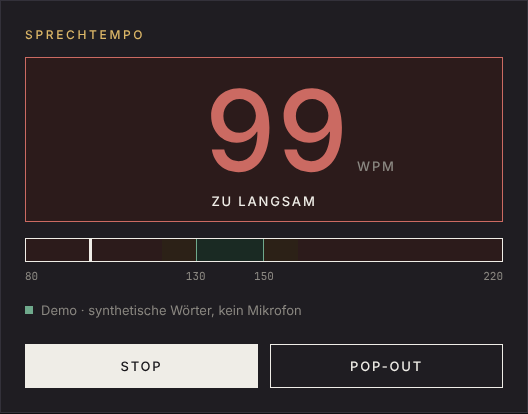
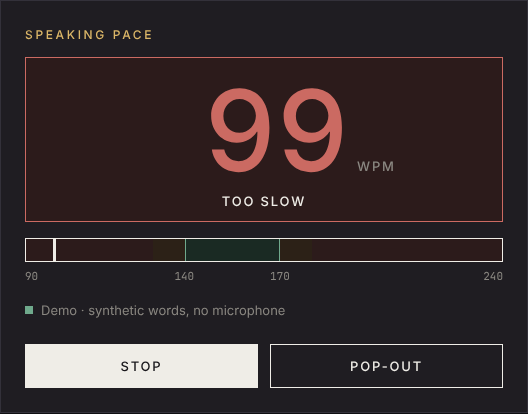
Use sourced pace norms per scenario and speech language
Scenario corridors (English reference): presentation 140-170,
conversation 150-190, video/podcast 150-180, teaching 120-150,
reading aloud 140-170 WPM.

Language factors from read-aloud rates (IReST 2012 and Brysbaert 2019
averaged): es 0.98, de 0.84, zh 0.72 (dictionary words, cross-checked
with conversational corpora), ar 0.68, hi 1.0 (low confidence, one
older study).

README documents every source and caveat; screenshots now show the
English interface plus the Arabic right-to-left layout. CONTRIBUTING
invites native-speaker translation fixes and sourced norm updates.

Claude-Session: https://claude.ai/code/session_01QcqxZM7zKTmSiGWN7DcczE

diff --git a/index.html b/index.html
@@ -356,9 +356,11 @@ body {
   // per minute each speech language typically carries relative to English. Sources: README.
   var SCENARIOS = ['presentation', 'conversation', 'recording', 'teaching', 'reading', 'custom'];
   var SCENARIO_BASE = {
-    presentation: [130, 150], conversation: [140, 170], recording: [140, 160], teaching: [110, 130], reading: [150, 160]
+    presentation: [140, 170], conversation: [150, 190], recording: [150, 180], teaching: [120, 150], reading: [140, 170]
   };
-  var LANG_FACTOR = { 'en-US': 1, 'zh-CN': 1, 'hi-IN': 1, 'es-ES': 1, 'ar-SA': 1, 'de-DE': 1 };
+  // Read-aloud rates relative to English (IReST 2012 and Brysbaert 2019 averaged; Chinese in
+  // dictionary words, cross-checked with conversational data). Hindi rests on one older study.
+  var LANG_FACTOR = { 'en-US': 1, 'zh-CN': 0.72, 'hi-IN': 1, 'es-ES': 0.98, 'ar-SA': 0.68, 'de-DE': 0.84 };
 
   var DEFAULTS = { ui: 'en', lang: 'en-US', scenario: 'presentation', min: 130, max: 150, windowSec: 15, pauseSec: 1.5, includePauses: false, beep: false };
   var MARGIN = 10;            // width of each yellow band in WPM

diff --git a/README.md b/README.md
@@ -13,7 +13,7 @@ One HTML file. Runs in your browser. Stores nothing.
 
 ### 👉 [Open Word Pace](https://nullthrone.github.io/word-pace-track/) · [Try the demo](https://nullthrone.github.io/word-pace-track/?demo=1)
 
-<img src="docs/screenshot-light.png" alt="Word Pace showing 99 WPM in red, labelled 'too slow', with the gauge below" width="420">
+<img src="docs/screenshot-light.png" alt="Word Pace showing 99 WPM in red, labelled 'Too slow', with the gauge below" width="420">
 
 </div>
 
@@ -29,13 +29,14 @@ Word Pace gives you an outside reference while you speak: a live words-per-minut
 
 - 🔢 **Live WPM**, updated twice a second over a sliding window (default 15 s).
 - ⏸ **Pauses don't count.** Silence neither lowers the number nor drops it to zero; the value freezes and shows *Pause*.
-- 🎯 **Target corridor** (default 130–150 WPM) with 10 WPM amber bands and a text label, so it reads without colour too.
+- 🎯 **Recommended pace per situation and language**: pick *Presentation*, *Conversation*, *Video / podcast*, *Teaching* or *Reading aloud*, and the target corridor adapts to the language you speak. Or set your own. 10 WPM amber bands and a text label make it readable without colour too.
+- 🌍 **Six languages**: English, 中文, हिन्दी, Español, العربية and Deutsch, for the interface and for speech recognition, chosen separately. Arabic runs right-to-left.
 - 🪟 **Pop-out**: a tiny always-on-top window next to Zoom or your recording app (Chrome, Edge). Safari and Firefox get a small popup.
 - 🔁 **Auto-restart** when the browser's recognition times out or the network hiccups, with backoff.
 - 📊 **Session summary**: duration, peak, average over speaking time *and* over total duration, time in each zone.
 - 🔔 **Optional beep** after 5 s in the red.
 - 🌗 **Light and dark** following your system setting.
-- 🔗 **Settings in the URL** (`#min=130&max=150&w=15…`): bookmark a setup, nothing is saved on the device.
+- 🔗 **Settings in the URL** (`#ui=en&lang=en-US&sc=presentation…`): bookmark a setup, nothing is saved on the device.
 - 🧪 **Demo mode** (`?demo=1`): a synthetic 100→200 WPM ramp, no microphone needed.
 
 <div align="center">
@@ -72,8 +73,45 @@ WPM = words in window / speaking time in window × 60
 Good to know:
 
 - While a pause is still inside the window, up to *P* of it counts as speech, so the value can read up to ~10 % low until the pause leaves the window.
-- Tools that divide by the *total* duration, pauses included, report a lower number than speaking-time WPM. Switch on **Pausen einrechnen** to compare, or read both averages in the session summary.
+- Tools that divide by the *total* duration, pauses included, report a lower number than speaking-time WPM. Switch on **Count pauses** to compare, or read both averages in the session summary.
+- Words are counted with `Intl.Segmenter`, so languages written without spaces (Chinese) count dictionary words, not characters.
 - Recognition delivers words in bursts with some latency. Accuracy target: within 15 % of a stopwatch count.
+
+## 🌍 Languages and recommended pace
+
+Good pace depends on the situation and on the language: German and Arabic words are longer than English ones, so the same speed of talking carries fewer words per minute. Word Pace takes a reference corridor in English for each scenario and scales it by a factor for the speech language.
+
+**Scenario corridors (English reference, WPM)**
+
+| Scenario | Corridor | Basis |
+| --- | --- | --- |
+| Presentation | 140–170 | Lectures average 140–153 WPM, TED talks 169 ([Vuković-Stamatović & Čarapić](http://www.revistaiberica.org/index.php/iberica/article/download/852/549/); [Tånnander & Edlund 2021](https://www.isca-archive.org/ssw_2021/tannander21_ssw.pdf)) |
+| Conversation | 150–190 | Telephone corpora 193–196 WPM over total time, by topic 152–170 ([Yuan, Liberman & Cieri 2006](https://www.ldc.upenn.edu/sites/default/files/interspeech2006-towards-integrated-understanding.pdf)); ~150 as US average ([NCVS](https://ncvs.org/archive/ncvs/tutorials/voiceprod/tutorial/quality.html)) |
+| Video / podcast | 150–180 | Science podcasts average 168, radio 160 ([Vuković-Stamatović & Čarapić](http://www.revistaiberica.org/index.php/iberica/article/download/852/549/)) |
+| Teaching | 120–150 | Learner comprehension improves when speech slows from ~200 to ~130; ~120 for beginners ([Yurtbaşı 2015](https://files.eric.ed.gov/fulltext/ED566202.pdf)) |
+| Reading aloud | 140–170 | Audiobook narration ~155 WPM (9,300 words/hour, [ACX](https://help.acx.com/s/article/how-long-will-my-narrated-audiobook-be)); audiobooks 140–180 ([Brysbaert 2019](https://www.gwern.net/doc/psychology/linguistics/2019-brysbaert.pdf)) |
+
+**Language factors (English = 1.0)**, from read-aloud rates in [IReST 2012](https://iovs.arvojournals.org/article.aspx?articleid=2166061) and [Brysbaert 2019](https://www.gwern.net/doc/psychology/linguistics/2019-brysbaert.pdf), averaged:
+
+| Speech language | Factor | Presentation corridor | Confidence |
+| --- | --- | --- | --- |
+| English (en-US) | 1.00 | 140–170 | reference |
+| Español (es-ES) | 0.98 | 135–165 | medium-high |
+| Deutsch (de-DE) | 0.84 | 120–145 | medium |
+| 中文 (zh-CN) | 0.72 | 100–120 | medium; matches conversational data ([Yuan et al. 2006](https://www.ldc.upenn.edu/sites/default/files/interspeech2006-towards-integrated-understanding.pdf)) |
+| العربية (ar-SA) | 0.68 | 95–115 | medium-low |
+| हिन्दी (hi-IN) | 1.00 | 140–170 | **low**: one older study, 198 WPM reading aloud ([cited in Dhakal et al. 2015](https://www.languageinindia.com/nov2015/shantarateofspeech1.pdf)) |
+
+Caveats, honestly stated:
+
+- The corridors are a synthesis of the cited measurements, not an official standard.
+- The language factors come from read-aloud studies. For spontaneous speech only Chinese has a cross-check, and it agrees.
+- Published rates mostly divide by total time. Word Pace excludes only pauses longer than *P*, so it reads close to those figures for fluent speech and somewhat higher with many long pauses.
+- Hindi needs better data. If you know a study, please open an issue.
+
+<div align="center">
+<img src="docs/screenshot-ar.png" alt="Word Pace in Arabic, laid out right-to-left" width="420">
+</div>
 
 ## 🔒 Privacy
 
@@ -98,14 +136,16 @@ All settings live in the URL fragment, so a bookmark keeps them:
 
 | Key | Meaning | Default | Range |
 | --- | --- | --- | --- |
-| `min` / `max` | Target corridor in WPM | 130 / 150 | 60–250 / 70–300 |
+| `ui` | Interface language | from your browser, else `en` | `en`, `zh`, `hi`, `es`, `ar`, `de` |
+| `lang` | Speech language | matches `ui` | `en-US`, `zh-CN`, `hi-IN`, `es-ES`, `ar-SA`, `de-DE` |
+| `sc` | Scenario | `presentation` | `presentation`, `conversation`, `recording`, `teaching`, `reading`, `custom` |
+| `min` / `max` | Target corridor in WPM (used with `sc=custom`) | from scenario | 40–250 / 50–300 |
 | `w` | Window length in seconds | 15 | 10–30 |
 | `p` | Pause threshold in seconds | 1.5 | 0.8–3 |
-| `lang` | Recognition language | `de-DE` | `de-DE`, `en-US` |
 | `pauses` | Count pauses (total-duration mode) | 0 | 0 / 1 |
 | `beep` | Beep after 5 s in the red | 0 | 0 / 1 |
 
-Example: `https://nullthrone.github.io/word-pace-track/#min=140&max=160&lang=en-US`
+Examples: `…/word-pace-track/#ui=de&lang=en-US&sc=teaching` (German interface, practising English for learners), `…/word-pace-track/#sc=custom&min=120&max=140`
 
 ## 🛠 Development
 
@@ -124,7 +164,7 @@ GitHub Pages cannot set custom response headers. The Content-Security-Policy and
 
 ## 🤝 Contributing
 
-Ideas, measurement reports and pull requests are welcome. Start with [CONTRIBUTING.md](CONTRIBUTING.md); it lists the few promises the project keeps (one file, no data leaves the page).
+Ideas, measurement reports, translation fixes from native speakers and pull requests are welcome. Start with [CONTRIBUTING.md](CONTRIBUTING.md); it lists the few promises the project keeps (one file, no data leaves the page).
 
 ## ☕ Support
 
